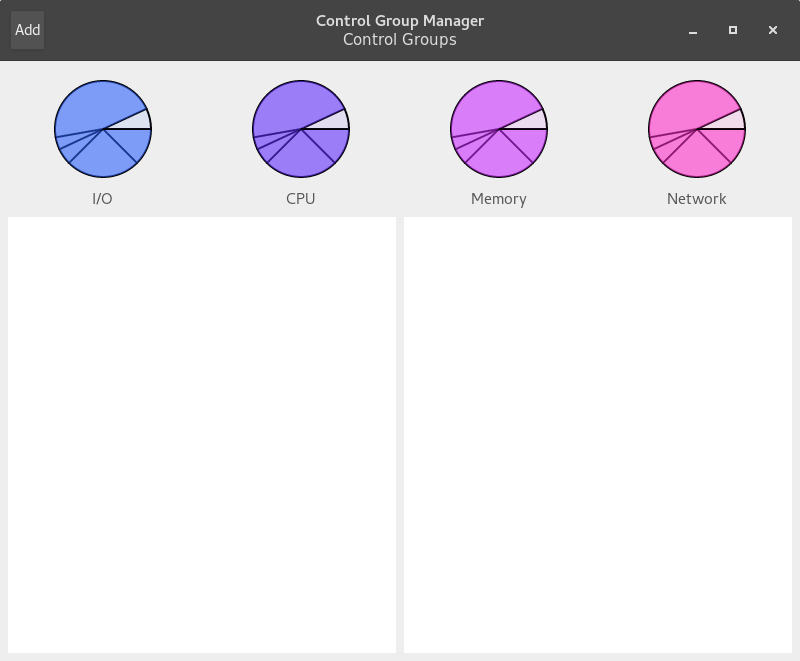
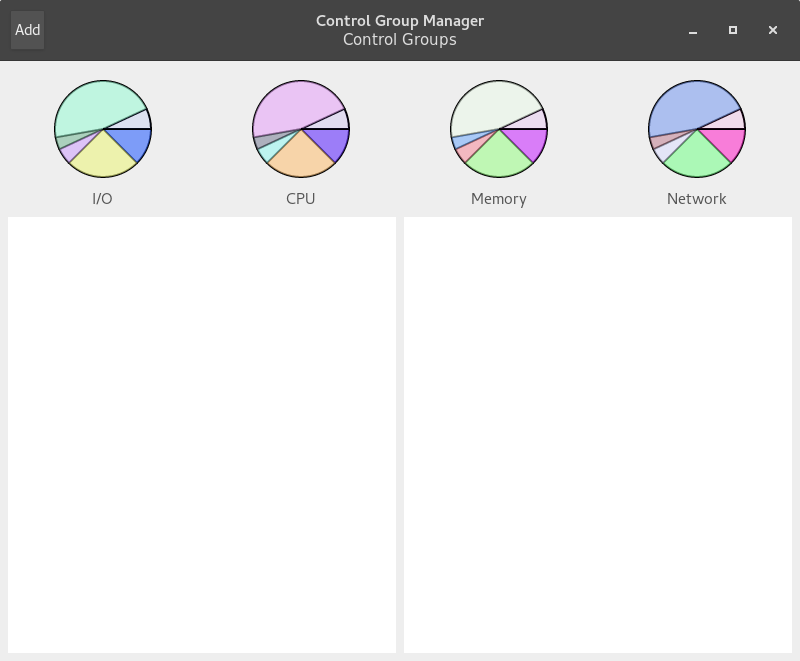
Better chart coloring
Added a color randomizer for chart colors, which generates colors for
each pie section that is clearly visually distinct from the others. This
makes it easier to divide one section from another when looking at the
chart, and easier to identify elsewhere in the app when cgroups are
identified by color.

Also adds an error condition when the chart is set to contain more data
than it can contain in its 360 degree circle.

diff --git a/src/PieChartRenderer.py b/src/PieChartRenderer.py
@@ -1,11 +1,32 @@
 import gi
 import math
 import time
+import random
 
 gi.require_version('Gtk', '3.0')
 from gi.repository import Gtk
 from gi.repository import Gdk
 
+# Color functions (get_random_color, color_distance,
+# generate_new_color) from https://gist.github.com/adewes/5884820
+def get_random_color(pastel_factor = 0.5):
+    return [(x+pastel_factor)/(1.0+pastel_factor) for x in [random.uniform(0,1.0) for i in [1,2,3]]]
+
+def color_distance(c1,c2):
+    return sum([abs(x[0]-x[1]) for x in zip(c1,c2)])
+
+def generate_new_color(existing_colors,pastel_factor = 0.5):
+    max_distance = None
+    best_color = None
+    for i in range(0,100):
+        color = get_random_color(pastel_factor = pastel_factor)
+        if not existing_colors:
+            return color
+        best_distance = min([color_distance(color,c) for c in existing_colors])
+        if not max_distance or best_distance > max_distance:
+            max_distance = best_distance
+            best_color = color
+    return best_color
 
 def point_inside_polygon(x, y, poly):
     """
@@ -47,8 +68,9 @@ class PieChartRenderer:
                              Gdk.EventMask.LEAVE_NOTIFY_MASK)
         self.chart_color = color
         self.click_active = 0
-        self.sections = initial_groups
+        self.set_sections(initial_groups)
         self.polygons = []
+        self.colors = [self.chart_color]
 
     def draw(self, widget, event):
         cr = widget.get_property('window').cairo_create()
@@ -66,6 +88,8 @@ class PieChartRenderer:
         cr.translate(w / 2, h / 2)
         accum = 0
         self.polygons = []
+        self.colors = [self.chart_color]
+        i = 0
         for section in self.sections:
             section_angle = (section.allocation / section.total) * 360.0
             x = r * math.cos(math.radians(section_angle + accum))
@@ -79,9 +103,12 @@ class PieChartRenderer:
             accum += section_angle
             cr.stroke_preserve()
             cr.close_path()
-            cr.set_source_rgba(self.chart_color[0], self.chart_color[1],
-                               self.chart_color[2], 0.6)
+            if len(self.colors) < len(self.sections):
+                self.colors.append(generate_new_color(self.colors, pastel_factor = 0.9))
+            cr.set_source_rgba(self.colors[i][0], self.colors[i][1],
+                               self.colors[i][2], 0.6)
             cr.fill()
+            i += 1
 
         cr.set_source_rgb(0, 0, 0)
         cr.arc(0, 0, r, math.radians(accum), 2 * math.pi)
@@ -131,3 +158,13 @@ class PieChartRenderer:
 
     def mouse_leave(self, widget, event):
         self.click_active = 0
+
+    def set_sections(self, sections):
+        accum = 0
+        for section in sections:
+            accum += (section.allocation / section.total) * 360.0
+        if accum > 360:
+            raise OverflowError('Sections set in pie chart overflow chart bounds.')
+        else:
+            self.sections = sections
+
